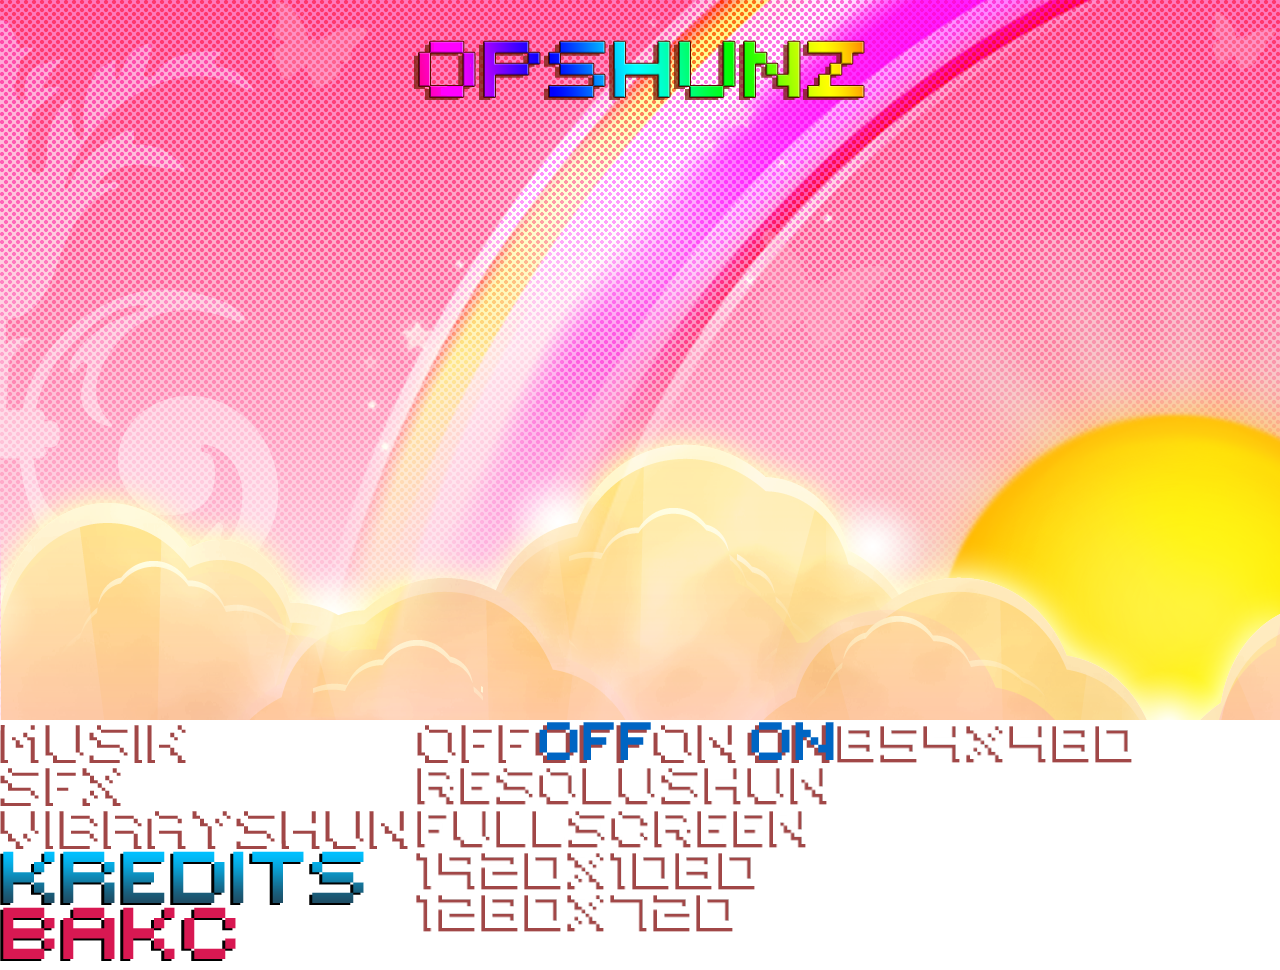
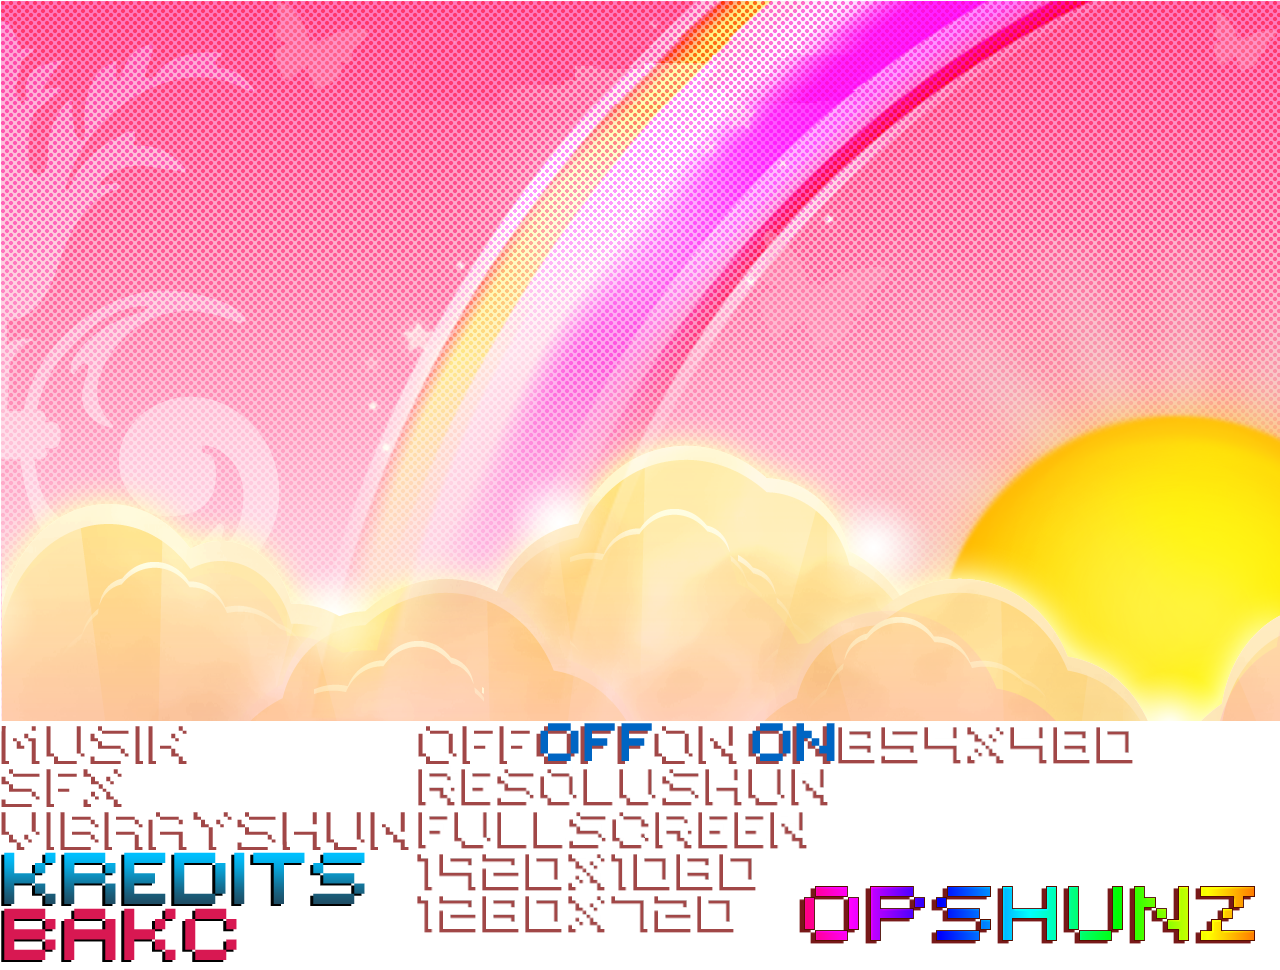
Updated options_bgMenu.png

diff --git a/Helicopter.Core/Helicopter/OptionsMenu.cs b/Helicopter.Core/Helicopter/OptionsMenu.cs
@@ -357,6 +357,7 @@ namespace Helicopter.Core
             if (Game1.IsMobile)
             {
                 spriteBatch.Draw(Global.optionsTex, Vector2.Zero, (Rectangle?)new Rectangle(0, 0, 1280, 720), Color.White);
+                spriteBatch.Draw(Global.optionsTex, new Vector2(412f, 43f), (Rectangle?)new Rectangle(799, 885, 456, 58), Color.White); //options title
                 if (this.musicOn)
                 {
                     this.DrawOnOff(spriteBatch, new Vector2(900f, 171f));
@@ -385,6 +386,7 @@ namespace Helicopter.Core
             else if (Game1.IsDesktop)
             {
                 spriteBatch.Draw(Global.optionsTex, Vector2.Zero, (Rectangle?)new Rectangle(0, 0, 1280, 720), Color.White);
+                spriteBatch.Draw(Global.optionsTex, new Vector2(412f, 43f), (Rectangle?)new Rectangle(799, 885, 456, 58), Color.White); //options title
                 spriteBatch.Draw(Global.sound_levels, new Vector2(1072f, 214f - 42f), (Rectangle?)sound_levels_[musicValue], Color.White);
                 spriteBatch.Draw(Global.sound_levels, new Vector2(1072f, 277f - 42f), (Rectangle?)sound_levels_[FXValue], Color.White);
                 this.resOptions[this.resIndex].Draw(spriteBatch);
